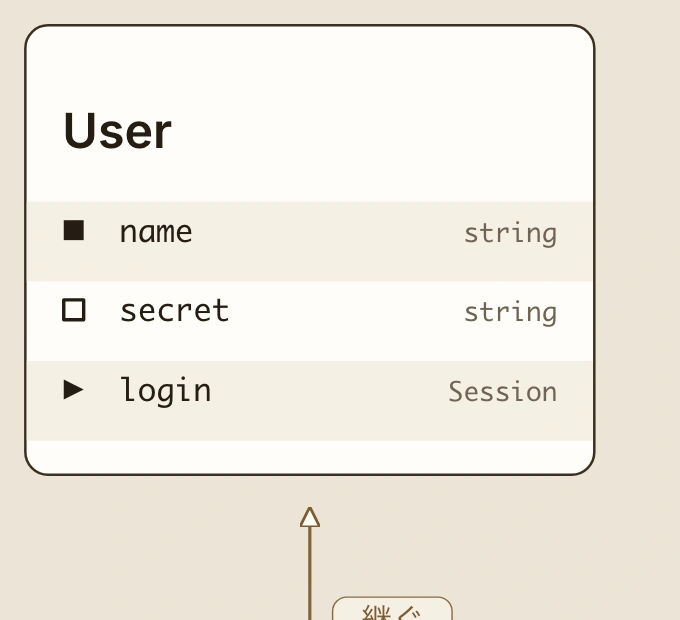
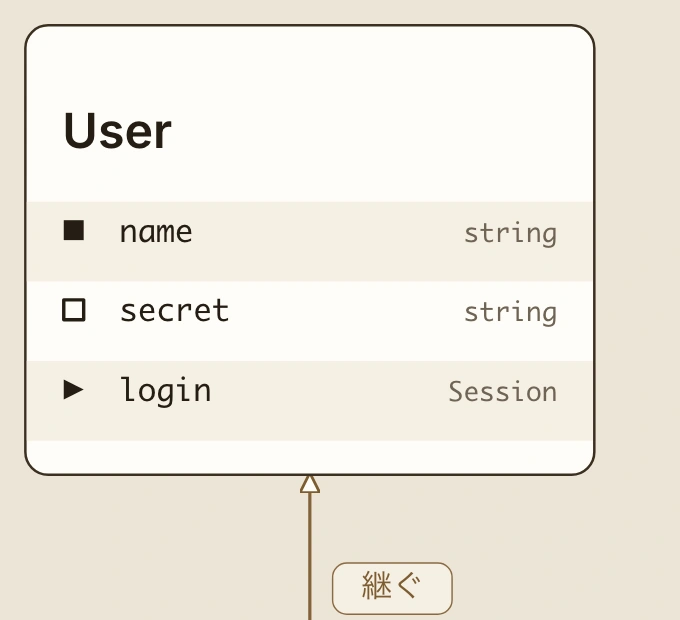
🎨 improve(class): cdl 0.27.0 を取り込んで箱の下の余白を詰める
## 背景

行頭の印を持つ箱は最後の行の帯の下に 48 空いていた。
行送りが 56 なので、48 が空の行 1 つに見える。

最後の行に縞が乗る箱では余白が別の帯として読め、乗らない箱では最後の行が倍の高さに見えた。

cdl 0.27.0 で余白の起点が最後の行の中線から縞の帯の下端に変わり、24 になる。
3 行の箱で高さが 340 から 316 になる。

## 変更 file

- packages/dragon/package.json = 依存を `^0.27.0` に
- apps/playground-spa/package.json = 同上
- pnpm-lock.yaml = 入れ直し
- docs/design/class/note.md = 「箱の下の余白」 節を engine 待ちの記述から直した後の記述に
- docs/design/class/images/*.png = 7 枚を cdl 0.27.0 の実描画に撮り直し
- CHANGELOG.md = Changed に 1 件

## 幾何への影響

箱が縮むと段の間隔と線の通り道が動く。
`test:sweep` は 15 件とも通り、線が箱を貫通する / 札が線に重なる / 箱が重なる のいずれも
新しい指摘は出ていない。

Closes #1579

Constraint: 意匠帳の絵は engine を出し直したら撮り直す (画面と食い違わせない)
Confidence: high
Scope-risk: moderate

Claude-Session: https://claude.ai/code/session_015yAWc7esVzRn8tFCYbQsb8

Changed region(s): [[0.4632, 0.8887, 0.6794, 1.0], [0.4324, 0.7661, 0.4941, 0.8581]]

diff --git a/CHANGELOG.md b/CHANGELOG.md
@@ -5,6 +5,24 @@ dragon DSL の主要変更履歴。
 
 ## [Unreleased]
 
+### Changed
+
+- **行頭の印を持つ箱の下の余白が詰まった** (#1579)
+
+  依存を `^0.27.0` に上げた。 cdl 0.27.0 で箱の下の余白の起点が変わる。
+
+  直す前は最後の行の帯の下に 48 空いていた。 行送りが 56 なので、48 が空の行 1 つに見える。
+  最後の行に縞が乗る箱では余白が別の帯として読め、乗らない箱では最後の行が倍の高さに見えた。
+
+  余白の起点が最後の行の中線から縞の帯の下端に変わり、24 になった。
+  3 行の箱で高さが 340 から 316 になる。
+
+  **効くのは行頭の印を持つ箱すべて**。 見本帳では ER 図 / 状態遷移図 / クラス図が対象になる。
+  `pnpm run test:sweep` は 15 件とも通り、新しい指摘は出ていない。
+
+  併せて意匠帳 `docs/design/class/note.md` の「箱の下の余白」 節を、engine 待ちの記述から
+  直した後の記述に書き換え、絵を実際の描画に差し替えた。
+
 ### Added
 
 - **見本帳のクラス図に種類の札を出した** (#1577)
